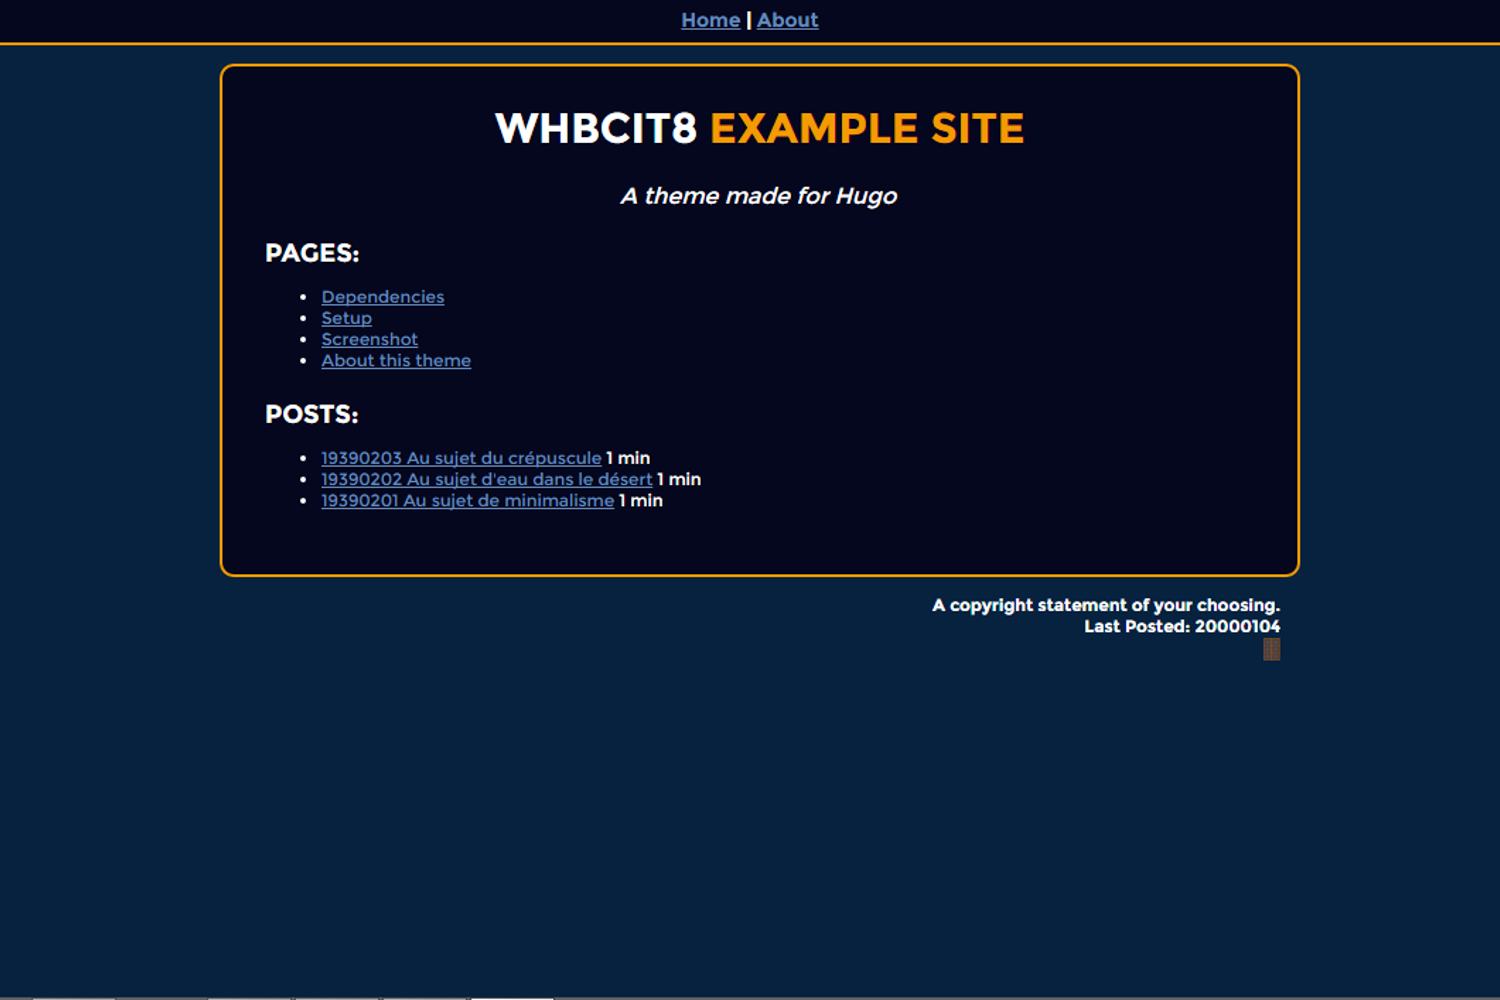
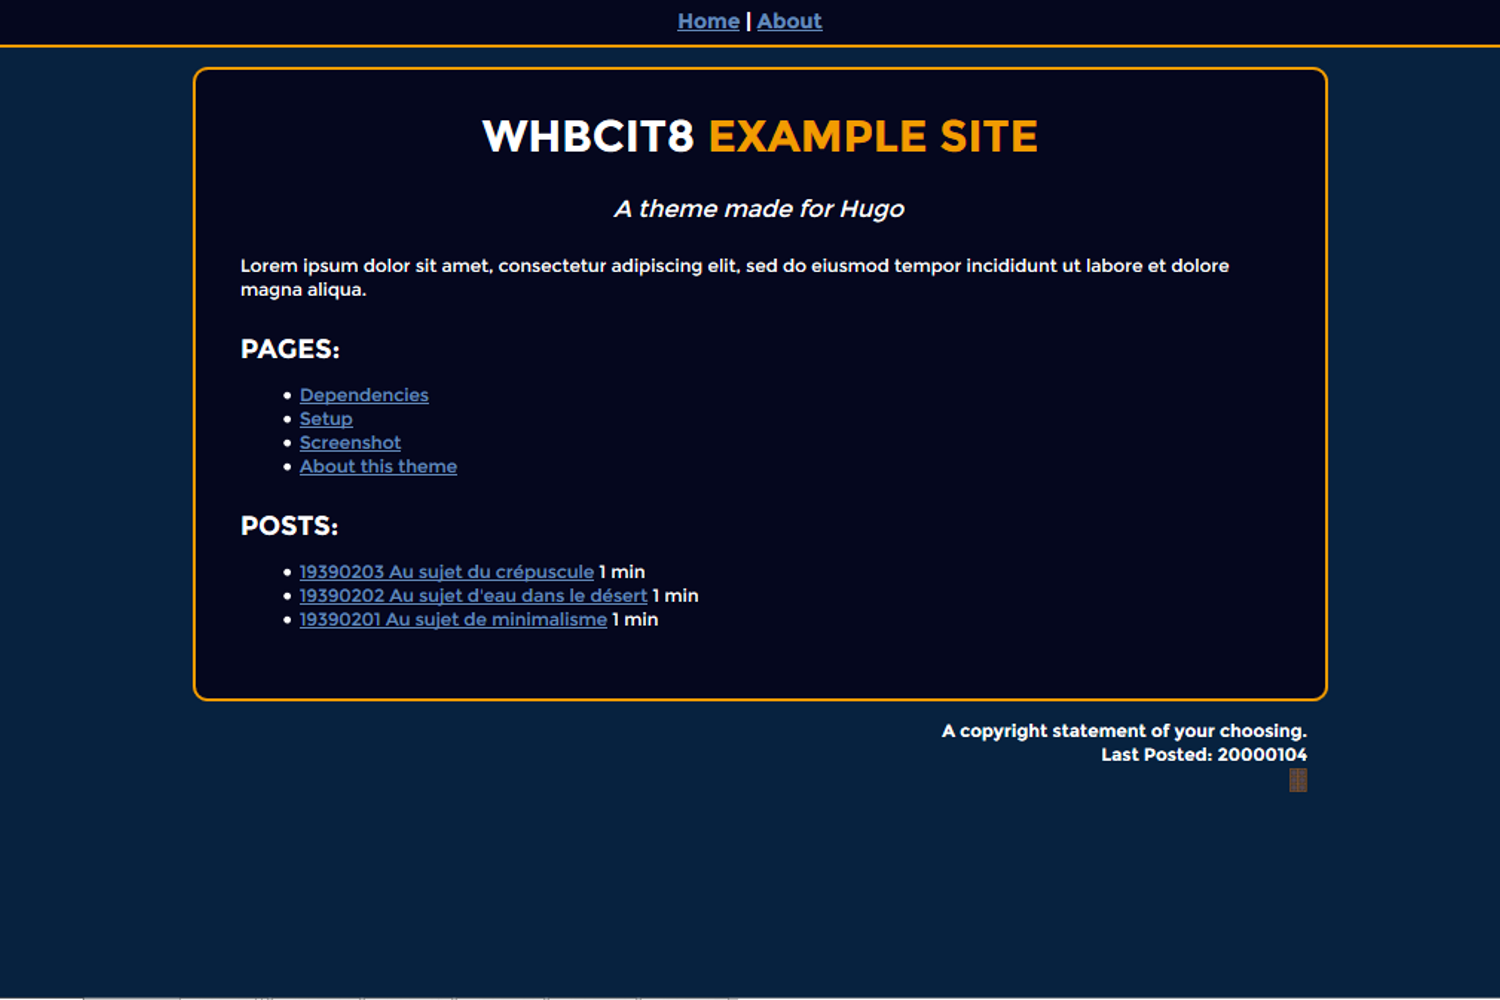
Added way to include intro text
Added: headline feature
Fixed: missed update in readme

Changed region(s): [[0.0, 0.0, 1.0, 0.806], [0.0, 0.992, 1.0, 1.0], [0.3987, 0.186, 0.6133, 0.217]]

diff --git a/layouts/index.html b/layouts/index.html
@@ -9,6 +9,13 @@
 			<section class="whbcit8_tagline center_justified">
 				<span>{{ .Site.Params.tagline }}</span>
 			</section>
+			{{ range where .Data.Pages ".Params.timeless" "indexintro" }}
+				{{ if eq .Title "indexintro" }}
+				<section id="indexintro">
+						{{ .Content }}
+				</section>
+				{{ end }}
+			{{ end }}
 			{{if lt 0 (len (where .Data.Pages ".Params.timeless" "=" "true"))}}
 			<section id="post_index">
 				<span class="whbcit8_title2">Pages:</span>

diff --git a/README.md b/README.md
@@ -46,6 +46,15 @@ title = "TK MY SITE'S TITLE"
 ```
 ---
 
+### Indexintro.md
+
+To add in some introductory spiel to the index page, create a markdown document in your content folder with the following in your toml frontmatter:
+```toml
+timeless = "indexintro"
+title = "indexintro"
+```
+To keep it simple there's no repositioning of the page index; so perhaps keep this bit short so as not to push the index too far down the page.
+
 ### CSS
 
 The CSS is adapted from [HTML5 Boilerplate](http://gohugo.io).  Just a few layout and color tweaks.  There are some override styles and a few custom ones prefixed with "whbcit8".  In terms of font choice: geometric sans-serifs, monospace, and perhaps even slab serifs all seem to work fine.
@@ -62,7 +71,7 @@ Page configuration is largely unchanged from the default but there are some addi
 streamtitle="" #Optional.  If you set it, it will display a subtitle in a contrasting color (adjustable within the CSS) on the individual page.
 timeless = "false" #Optional.  If you set it, it will determine whether the post displays date features (displaying a date on the post summary on the index page, date in the page title).  Changing the value to true suppresses all of these features, with the exception of the last modified date shown by the pedrolastmod parameter
 draft=true
-pedrolastmod="YYYYMMDD" #Optional.  If you set it, it will display a Last Modified Date under the footer.  This is not automated at all, nor formatted, but simply provides a basic ability to indicate that the creation date differs from the modified date.  If left unchanged, it will display the created date.
+coolinthe80slastmod="YYYYMMDD" #Optional.  If you set it, it will display a Last Modified Date under the footer.  This is not automated at all, nor formatted, but simply provides a basic ability to indicate that the creation date differs from the modified date.  If left unchanged, it will display the created date.
 +++
 
 LOREM IPSUM PAGE CONTENT GOES HERE

diff --git a/exampleSite/content/indexintro.md b/exampleSite/content/indexintro.md
@@ -1,0 +1,11 @@
++++
+date = "2000-01-01T12:00:00+02:00"
+draft = false
+coolinthe80slastmod = "20160604"
+streamtitle = ""
+timeless = "indexintro"
+title = "indexintro"
+
++++
+
+Lorem ipsum dolor sit amet, consectetur adipiscing elit, sed do eiusmod tempor incididunt ut labore et dolore magna aliqua.
